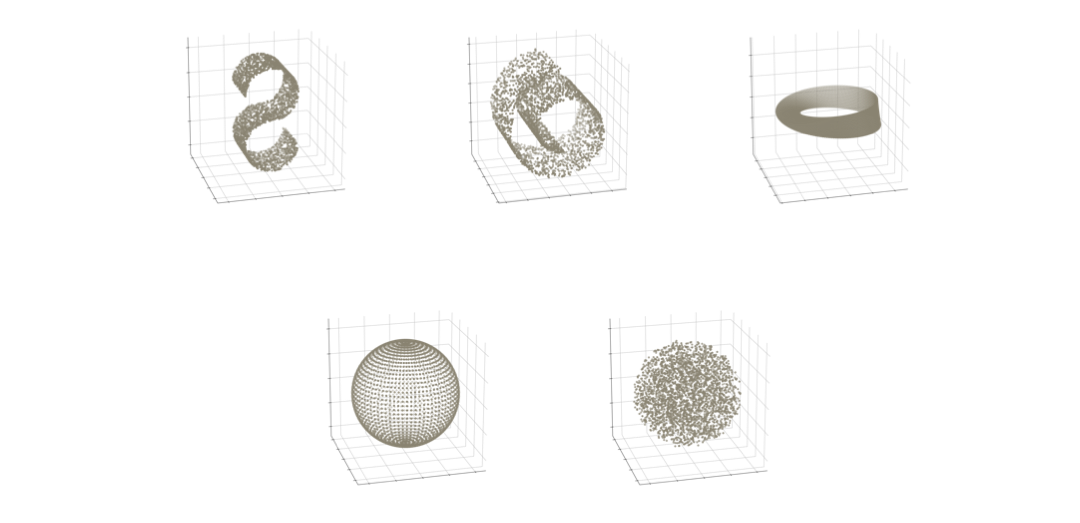
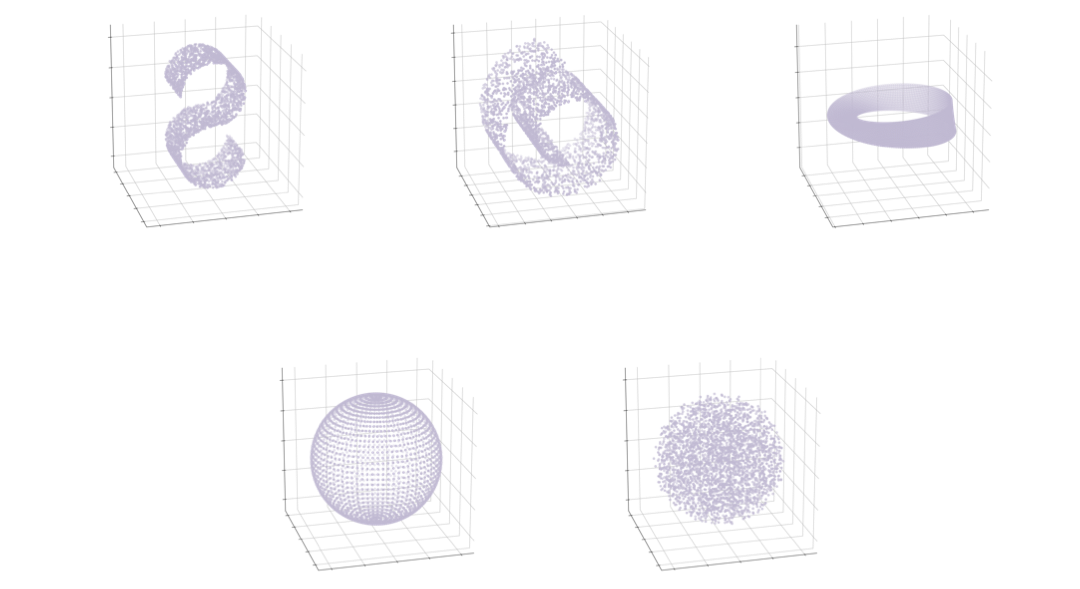
update

diff --git a/readme_materials/plot.py b/readme_materials/plot.py
@@ -148,7 +148,7 @@ for l in datasets.keys():
         datasets[l][:, 0],
         datasets[l][:, 1],
         datasets[l][:, 2],
-        color = '#36454F',
+        color = '#c2b9d4',
         )
     fig.savefig('figures/{name}'.format(name = l), dpi = 600)
     
